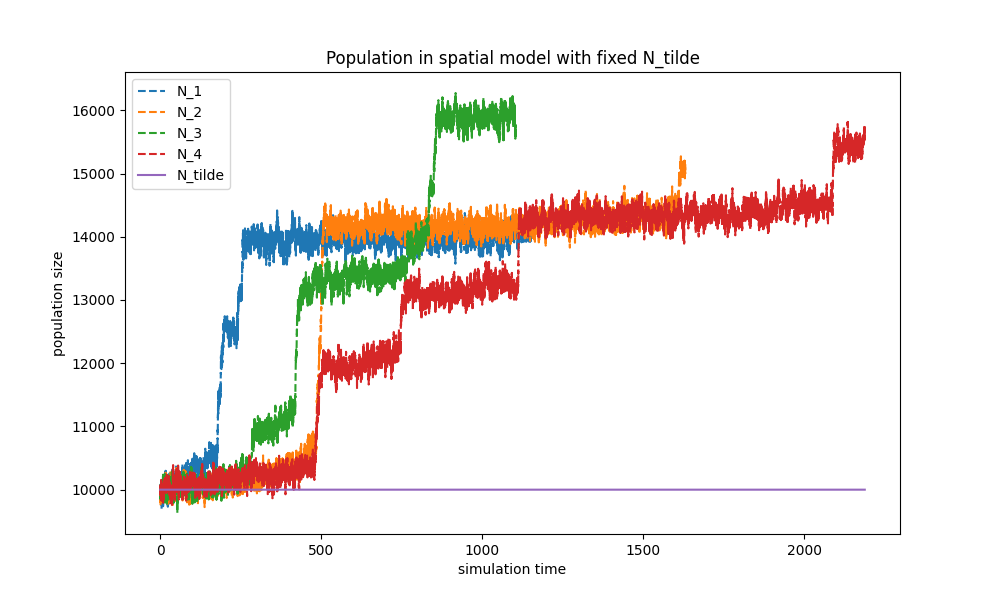
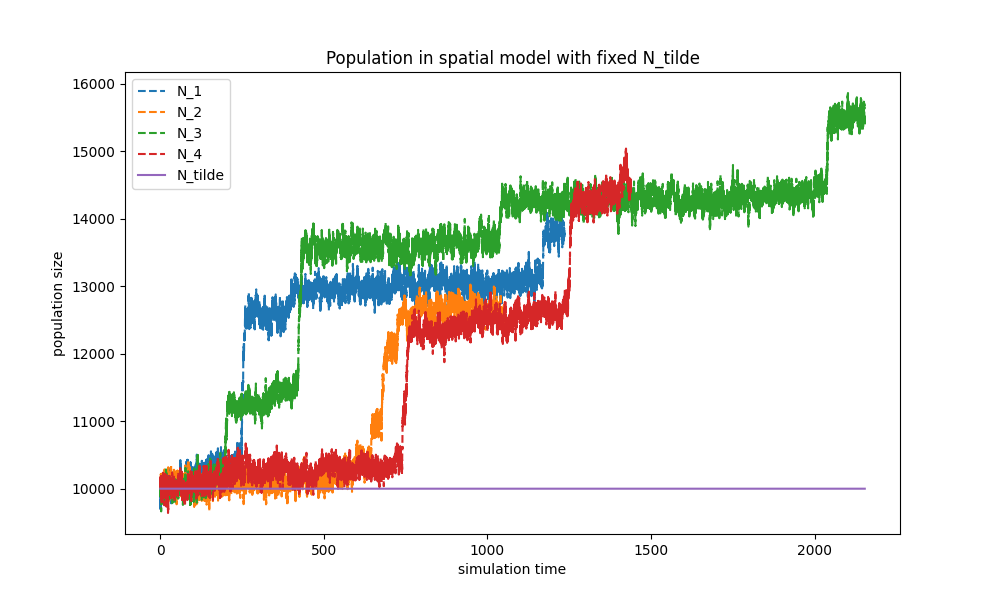
test

diff --git a/src/stocco_lib.py b/src/stocco_lib.py
@@ -446,7 +446,7 @@ class world_w_neighbours:
                         x_adj[j] += self.x[ngb_id][j] // 4
             x_adj[x_adj < 0] = 0   # to avoid negative rates
 
-            a_id = compute_rates_dyn_pop(x_adj, N_tilde_adj, self.f[:self.m_temp[i]], self.mu[i][:self.m_temp[i]])
+            a_id = compute_rates_dyn_pop(x_adj, N_tilde, self.f[:self.m_temp[i]], self.mu[i][:self.m_temp[i]])
             #a_id /= (1+len(self.neigh[i])/4) / self.resolution   # 'renormalization' of the rates
             a_id /= (1+len(self.neigh[i])/4)
 
